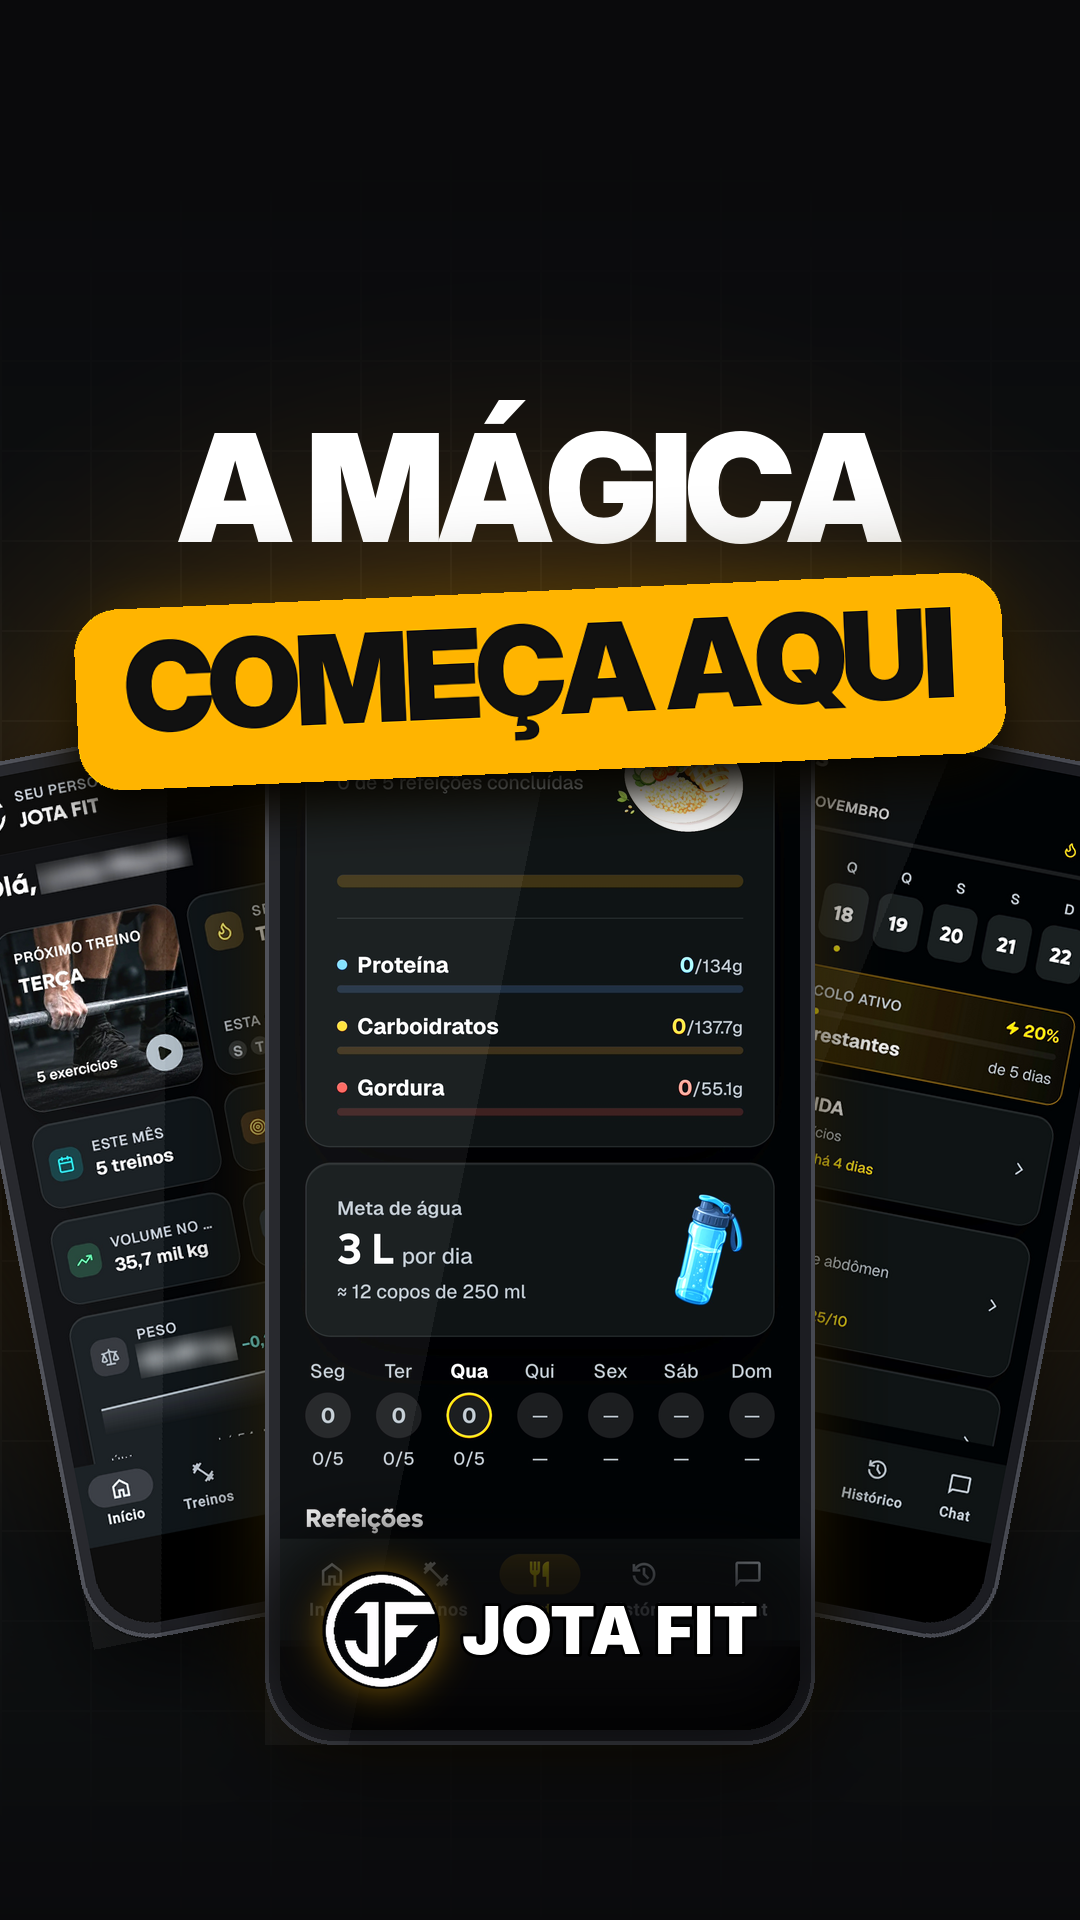
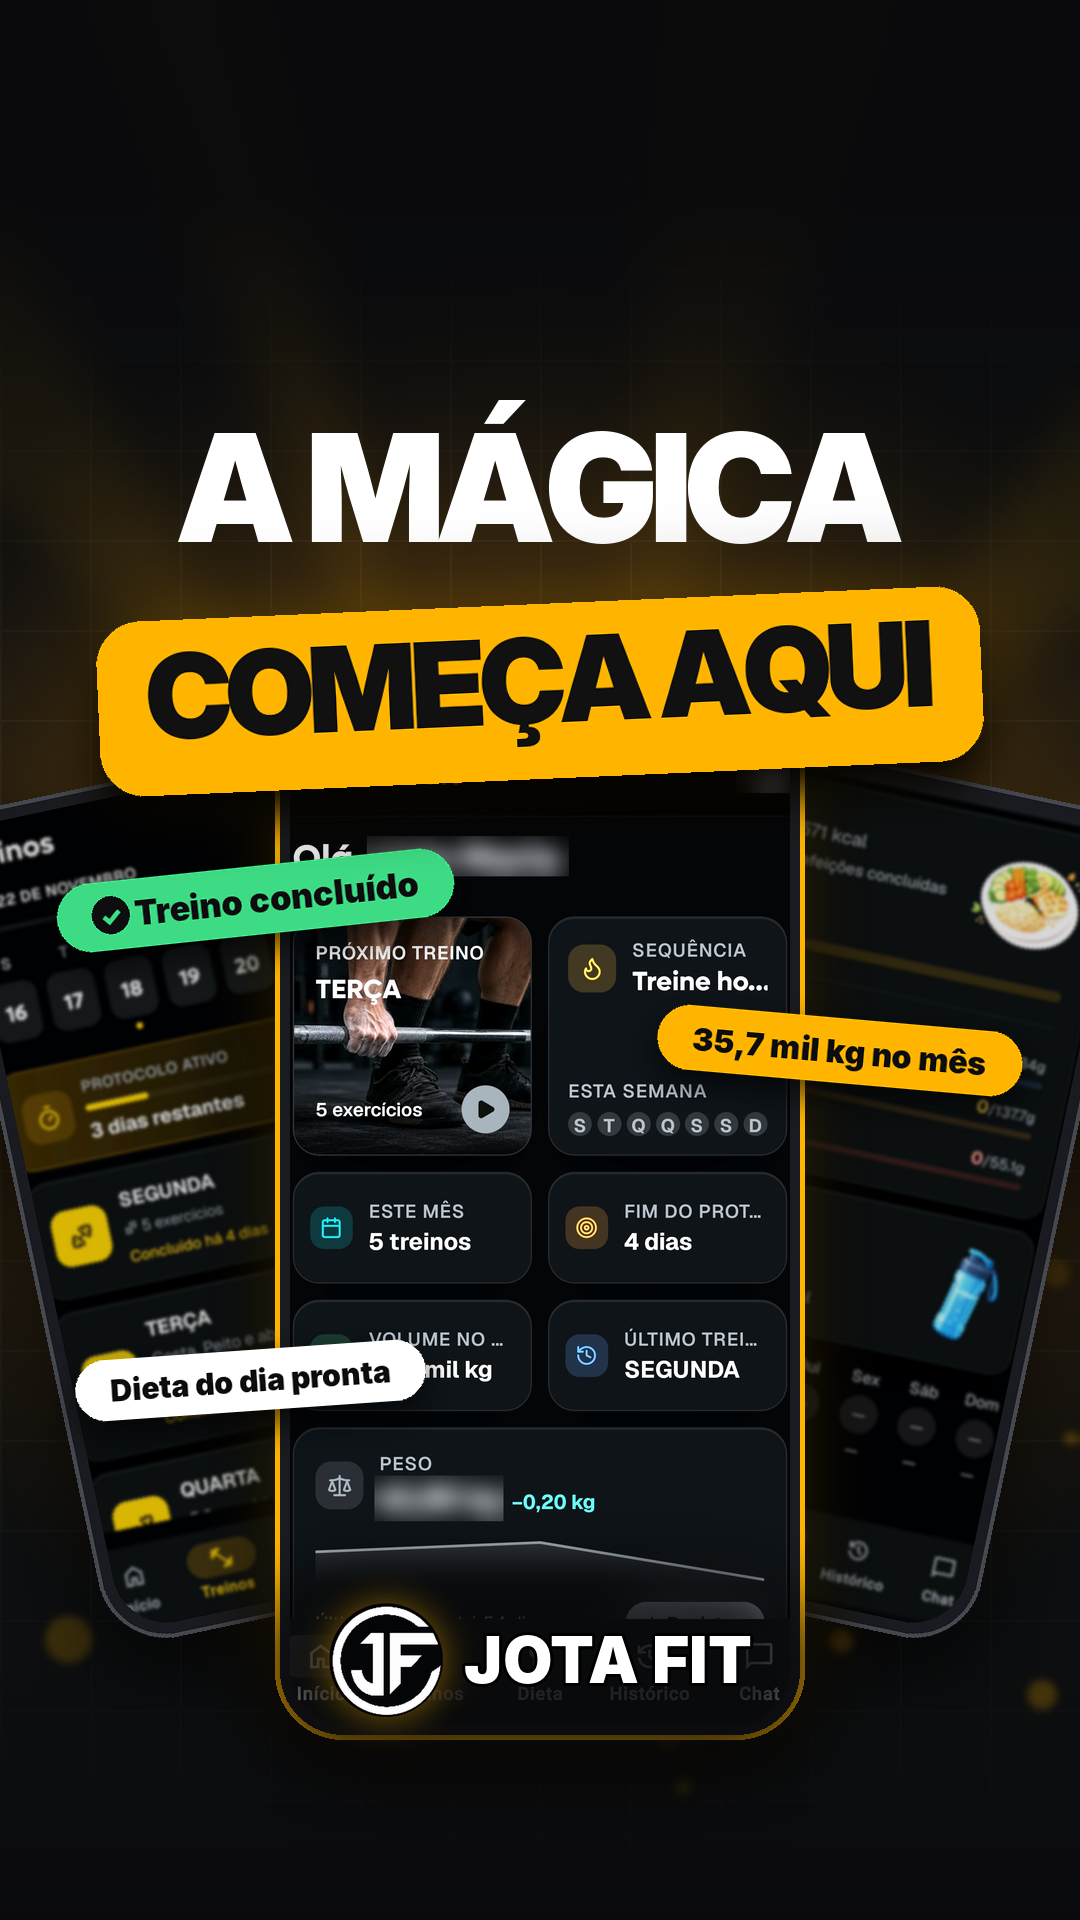
Redo all covers in one visual system (beams, bokeh, depth, floating chips; no glass glare)
Claude-Session: https://claude.ai/code/session_01UuH9TpKCs4xLYma23g83NG

Changed region(s): [[0.0, 0.2812, 1.0, 0.9062], [0.9472, 0.875, 0.9778, 0.9062], [0.7944, 0.6875, 0.825, 0.7188]]

diff --git a/analises/capas/covers.py b/analises/capas/covers.py
@@ -1,0 +1,183 @@
+"""Jota Fit cover system: amber-glow bg + light beams + bokeh, white/yellow tilted headline,
+fanned cards with depth-of-field (no glass reflection), floating UI chips, brand footer."""
+import sys, math, random, numpy as np, cv2
+from PIL import Image, ImageDraw, ImageFont, ImageFilter, ImageEnhance
+
+A, BRAND, OUTDIR = sys.argv[1], sys.argv[2], sys.argv[3]
+W, H = 1080, 1920
+YEL = (255, 180, 0); WHITE = (255, 255, 255); DARK = (14, 14, 16); GREEN = (61, 220, 132); RED = (255, 45, 70)
+INTER = '/usr/share/fonts/opentype/inter/'
+def F(n, s): return ImageFont.truetype(INTER + {'disp': 'InterDisplay-Black.otf', 'black': 'Inter-Black.otf', 'xb': 'Inter-ExtraBold.otf', 'bold': 'Inter-Bold.otf'}[n], s)
+
+def background(seed=1, cy=1000):
+    rng = random.Random(seed)
+    yy, xx = np.mgrid[0:H, 0:W].astype(np.float32)
+    glow = np.clip(1 - np.sqrt(((xx - W / 2) / 820) ** 2 + ((yy - cy) / 760) ** 2), 0, 1) ** 1.5
+    grid = (((xx % 90) < 1.5) | ((yy % 90) < 1.5)).astype(np.float32) * 0.055 * np.clip(1.25 - np.sqrt((xx - W / 2) ** 2 + (yy - cy) ** 2) / 820, 0, 1)
+    bg = np.zeros((H, W, 3), np.float32) + np.array([15, 14, 12]) + glow[..., None] * np.array([0, 150, 255]) * 0.8 + grid[..., None] * 255
+    base = Image.fromarray(np.clip(bg, 0, 255).astype(np.uint8)[..., ::-1]).convert('RGBA')
+    # light beams from behind the cards
+    beams = Image.new('RGBA', (W, H)); bd = ImageDraw.Draw(beams)
+    ox, oy = W / 2, cy + 150
+    for ang in (-62, -38, -14, 12, 36, 60):
+        a = math.radians(ang + rng.uniform(-4, 4)); w_ = math.radians(4 + rng.uniform(0, 3))
+        L = 1500
+        p1 = (ox + L * math.sin(a - w_), oy - L * math.cos(a - w_)); p2 = (ox + L * math.sin(a + w_), oy - L * math.cos(a + w_))
+        bd.polygon([(ox, oy), p1, p2], fill=YEL + (rng.randint(16, 30),))
+    base.alpha_composite(beams.filter(ImageFilter.GaussianBlur(30)))
+    # bokeh particles
+    bk = Image.new('RGBA', (W, H)); kd = ImageDraw.Draw(bk)
+    for _ in range(26):
+        x, y, r = rng.uniform(0, W), rng.uniform(700, 1800), rng.uniform(6, 26)
+        kd.ellipse((x - r, y - r, x + r, y + r), fill=YEL + (rng.randint(40, 110),))
+    base.alpha_composite(bk.filter(ImageFilter.GaussianBlur(5)))
+    return base
+
+def load(path, bright=1.15):
+    im = Image.open(path).convert('RGB')
+    im = ImageEnhance.Brightness(im).enhance(bright); im = ImageEnhance.Contrast(im).enhance(1.08)
+    return im
+
+def fit(im, w, h, cx=0.5, cy=0.0):
+    sw, sh = im.size; s = max(w / sw, h / sh); nw, nh = int(sw * s) + 1, int(sh * s) + 1
+    im = im.resize((nw, nh), Image.LANCZOS); x0 = int((nw - w) * cx); y0 = int((nh - h) * cy)
+    return im.crop((x0, y0, x0 + w, y0 + h))
+
+def card(im, w, h, rot=0, rad=54, border=(70, 72, 80), bw=4, blur=0, dim=1.0, cx=0.5, cy=0.0, frame=True):
+    c = fit(im, w, h, cx, cy)
+    if blur: c = c.filter(ImageFilter.GaussianBlur(blur))
+    if dim != 1: c = ImageEnhance.Brightness(c).enhance(dim)
+    c = c.convert('RGBA'); mk = Image.new('L', (w, h), 0); ImageDraw.Draw(mk).rounded_rectangle((0, 0, w - 1, h - 1), rad, fill=255); c.putalpha(mk)
+    pad = 15 if frame else 0
+    fr = Image.new('RGBA', (w + 2 * pad, h + 2 * pad), (0, 0, 0, 0))
+    if frame: ImageDraw.Draw(fr).rounded_rectangle((0, 0, w + 2 * pad - 1, h + 2 * pad - 1), rad + 14, fill=(26, 27, 32, 255), outline=border + (255,), width=bw)
+    fr.alpha_composite(c, (pad, pad))
+    return fr.rotate(rot, resample=Image.BICUBIC, expand=True) if rot else fr
+
+def place(lay, im, cx, cy, shadow=170, glow=None, glow_a=120):
+    m = im.split()[3]
+    if glow:
+        g = Image.new('RGBA', (W, H)); t = Image.new('RGBA', im.size, glow + (0,)); t.putalpha(m.point(lambda v: v * glow_a // 255))
+        g.alpha_composite(t, (int(cx - im.width / 2), int(cy - im.height / 2))); lay.alpha_composite(g.filter(ImageFilter.GaussianBlur(45)))
+    sh = Image.new('RGBA', (W, H)); t = Image.new('RGBA', im.size, (0, 0, 0, 0)); t.putalpha(m.point(lambda v: v * shadow // 255))
+    sh.alpha_composite(t, (int(cx - im.width / 2), int(cy - im.height / 2 + 40))); lay.alpha_composite(sh.filter(ImageFilter.GaussianBlur(40)))
+    lay.alpha_composite(im, (int(cx - im.width / 2), int(cy - im.height / 2)))
+
+def tight(text, font, fill, track):
+    ws = [font.getlength(c) for c in text]
+    im = Image.new('RGBA', (int(sum(ws) + track * (len(text) - 1) + 40), int(font.size * 1.4 + 40)), (0, 0, 0, 0)); d = ImageDraw.Draw(im); x = 20
+    for c, w in zip(text, ws): d.text((x, im.height / 2), c, font=font, fill=fill + (255,), anchor='lm'); x += w + track
+    return im.crop(im.getbbox())
+
+def headline(lay, l1, l2, y=400, s1=150, s2=124, maxw=900, box_col=YEL, fg2=(17, 17, 17)):
+    a = tight(l1, F('disp', s1), WHITE, -7)
+    if a.width > maxw: a = tight(l1, F('disp', int(s1 * maxw / a.width)), WHITE, -7)
+    lay.alpha_composite(a, (int(W / 2 - a.width / 2), y))
+    b = tight(l2, F('disp', s2), fg2, -6)
+    if b.width > maxw - 110: b = tight(l2, F('disp', int(s2 * (maxw - 110) / b.width)), fg2, -6)
+    bw, bh = b.width + 100, b.height + 64
+    box = Image.new('RGBA', (bw, bh), (0, 0, 0, 0)); ImageDraw.Draw(box).rounded_rectangle((0, 0, bw - 1, bh - 1), 44, fill=box_col + (255,))
+    box.alpha_composite(b, (50, 32)); box = box.rotate(2.5, resample=Image.BICUBIC, expand=True)
+    by = y + a.height + 40
+    g = Image.new('RGBA', (W, H)); t = Image.new('RGBA', box.size, box_col + (0,)); t.putalpha(box.split()[3].point(lambda v: v * 130 // 255))
+    g.alpha_composite(t, (int(W / 2 - box.width / 2), by)); lay.alpha_composite(g.filter(ImageFilter.GaussianBlur(40)))
+    sh = Image.new('RGBA', (W, H)); t = Image.new('RGBA', box.size, (0, 0, 0, 0)); t.putalpha(box.split()[3])
+    sh.alpha_composite(t, (int(W / 2 - box.width / 2), by + 24)); lay.alpha_composite(sh.filter(ImageFilter.GaussianBlur(22)))
+    lay.alpha_composite(box, (int(W / 2 - box.width / 2), by))
+    return by + box.height
+
+def chip(lay, text, cx, cy, kind='white', rot=0, size=36, icon=None):
+    bg = {'white': (255, 255, 255), 'yellow': YEL, 'green': GREEN, 'red': RED, 'dark': (22, 22, 26)}[kind]
+    fg = WHITE if kind in ('red', 'dark') else DARK
+    f = F('black', size); tw = f.getlength(text)
+    ic_w = size * 1.25 if icon else 0
+    w, h = int(tw + ic_w + 70), int(size * 2.0)
+    im = Image.new('RGBA', (w + 60, h + 60), (0, 0, 0, 0)); d = ImageDraw.Draw(im)
+    d.rounded_rectangle((30, 30, 30 + w, 30 + h), h // 2, fill=bg + (255,),
+                        outline=(YEL + (255,)) if kind == 'dark' else None, width=3 if kind == 'dark' else 0)
+    x = 30 + 35
+    if icon:
+        r = size * 0.55; cxi, cyi = x + r, 30 + h / 2
+        d.ellipse((cxi - r, cyi - r, cxi + r, cyi + r), fill=(fg if kind != 'dark' else YEL) + (255,))
+        d.text((cxi, cyi + 1), icon, font=F('black', int(size * 0.75)), fill=bg + (255,) if kind != 'dark' else DARK + (255,), anchor='mm')
+        x += ic_w
+    d.text((x, 30 + h / 2 + 1), text, font=f, fill=fg + (255,), anchor='lm')
+    if rot: im = im.rotate(rot, resample=Image.BICUBIC, expand=True)
+    sh = Image.new('RGBA', (W, H)); t = Image.new('RGBA', im.size, (0, 0, 0, 0)); t.putalpha(im.split()[3].point(lambda v: v * 170 // 255))
+    sh.alpha_composite(t, (int(cx - im.width / 2), int(cy - im.height / 2 + 14))); lay.alpha_composite(sh.filter(ImageFilter.GaussianBlur(16)))
+    lay.alpha_composite(im, (int(cx - im.width / 2), int(cy - im.height / 2)))
+
+def fades(lay, top=720, bottom=1620):
+    fade = np.zeros((H, W, 4), np.uint8); fade[..., :3] = (10, 10, 12); yv = np.arange(H)[:, None]
+    al = np.clip(np.maximum((top - yv) / 520, (yv - bottom) / 300), 0, 1) ** 1.4 * 0.93
+    fade[..., 3] = (al * 255).astype(np.uint8); lay.alpha_composite(Image.fromarray(fade))
+
+def brand(lay, cy=1660):
+    logo = Image.open(BRAND + '/logo.png').convert('RGBA').resize((116, 116), Image.LANCZOS)
+    fb = F('black', 64); tw = fb.getlength('JOTA FIT'); x0 = W / 2 - (116 + 20 + tw) / 2
+    d0 = Image.new('RGBA', (W, H)); ImageDraw.Draw(d0).rounded_rectangle((x0 - 60, cy - 92, x0 + 136 + tw + 60, cy + 92), 92, fill=(8, 8, 10, 220)); lay.alpha_composite(d0.filter(ImageFilter.GaussianBlur(28)))
+    g = Image.new('RGBA', (W, H)); ImageDraw.Draw(g).ellipse((x0 - 10, cy - 68, x0 + 126, cy + 68), fill=YEL + (140,)); lay.alpha_composite(g.filter(ImageFilter.GaussianBlur(22)))
+    lay.alpha_composite(logo, (int(x0), int(cy - 58)))
+    ImageDraw.Draw(lay).text((x0 + 136, cy), 'JOTA FIT', font=fb, fill=WHITE + (255,), anchor='lm', stroke_width=3, stroke_fill=(0, 0, 0, 255))
+
+def save(base, lay, name):
+    base.alpha_composite(lay); base.convert('RGB').save(f'{OUTDIR}/{name}', quality=95)
+    g = base.convert('RGB').crop((0, 240, 1080, 1680)).resize((540, 720)); g.save(f'{OUTDIR}/grid-{name.replace(".png", ".jpg")}', quality=88)
+
+# ======================= 1. TOUR DO APP =======================
+def cover_tour():
+    base = background(3); lay = Image.new('RGBA', (W, H))
+    place(lay, card(load(A + '/treinos.jpg'), 400, 820, 12, blur=1.6, dim=0.85), 235, 1190)
+    place(lay, card(load(A + '/dieta.jpg'), 400, 820, -12, blur=1.6, dim=0.85), 845, 1190)
+    place(lay, card(load(A + '/home.jpg', 1.2), 500, 1010, 0, border=YEL, bw=5), W / 2, 1220, 190, glow=YEL)
+    fades(lay)
+    chip(lay, 'Treino concluído', 255, 900, 'green', rot=6, size=34, icon='✓')
+    chip(lay, '35,7 mil kg no mês', 840, 1050, 'yellow', rot=-5, size=32)
+    chip(lay, 'Dieta do dia pronta', 250, 1380, 'white', rot=4, size=30)
+    headline(lay, 'A MÁGICA', 'COMEÇA AQUI')
+    brand(lay); save(base, lay, 'capa-tour-app.png')
+
+# ======================= 2. SEU PERSONAL NO BOLSO =======================
+def cover_curto():
+    base = background(7, 1050); lay = Image.new('RGBA', (W, H))
+    place(lay, card(load(A + '/treinos.jpg'), 430, 880, 9, blur=1.8, dim=0.8), 760, 1150)
+    place(lay, card(load(A + '/dieta.jpg', 1.2), 520, 1060, -6, border=YEL, bw=5), 470, 1230, 190, glow=YEL)
+    fades(lay)
+    chip(lay, 'Refeição concluída', 520, 1080, 'green', rot=-5, size=40, icon='✓')
+    chip(lay, 'Treino de hoje: TERÇA', 790, 870, 'white', rot=5, size=30)
+    chip(lay, 'Chat com o personal', 760, 1420, 'yellow', rot=-3, size=30)
+    headline(lay, 'SEU PERSONAL', 'NO BOLSO')
+    brand(lay); save(base, lay, 'capa-personal-no-bolso.png')
+
+# ======================= 3. COMO FUNCIONA A CONSULTORIA =======================
+def cover_consultoria():
+    base = background(11, 1050); lay = Image.new('RGBA', (W, H))
+    # personal's panel (laptop) as a wide tilted card behind
+    place(lay, card(load(A + '/painel.png', 1.15), 700, 470, 7, rad=36, cx=0.5, cy=0.25), 410, 1000)
+    place(lay, card(load(A + '/treinos.jpg', 1.2), 440, 900, -7, border=YEL, bw=5), 790, 1250, 190, glow=YEL)
+    fades(lay)
+    chip(lay, 'Painel do personal', 300, 760, 'white', rot=7, size=28)
+    chip(lay, 'App do aluno', 830, 800, 'white', rot=-7, size=28)
+    for k, (num, txt) in enumerate((('1', 'Avaliação'), ('2', 'Treino + dieta no app'), ('3', 'Ajuste toda semana'))):
+        chip(lay, txt, 300, 1290 + k * 105, 'dark', rot=0, size=30, icon=num)
+    headline(lay, 'COMO FUNCIONA', 'A CONSULTORIA', s1=118, s2=110)
+    brand(lay); save(base, lay, 'capa-como-funciona-consultoria.png')
+
+# ======================= 4. PASSADA =======================
+def cover_passada():
+    base = background(5, 1050); lay = Image.new('RGBA', (W, H))
+    ctx = Image.open(A + '/p_ctx.png').convert('RGB').crop((0, 300, 1080, 1250))
+    vs = Image.open(A + '/p_vs.png').convert('RGB').crop((560, 330, 1060, 1180))
+    f1 = Image.open(A + '/p_f1.png').convert('RGB').crop((60, 680, 1020, 1660))
+    place(lay, card(ctx, 400, 820, 12, blur=1.4, dim=0.85, cx=0.55), 235, 1190)
+    place(lay, card(vs, 400, 820, -12, blur=0.8, dim=0.9, cx=0.5, cy=0.0), 845, 1190)
+    place(lay, card(f1, 500, 1010, 0, border=RED, bw=5, cx=0.5, cy=0.0), W / 2, 1220, 190, glow=RED, glow_a=110)
+    fades(lay)
+    chip(lay, 'Joelho pra dentro', 285, 900, 'red', rot=6, size=32, icon='!')
+    chip(lay, 'Base de trilho', 820, 1080, 'red', rot=-5, size=30, icon='!')
+    chip(lay, 'Como deveria', 820, 1420, 'green', rot=-4, size=30, icon='✓')
+    headline(lay, 'NINGUÉM CORRIGIU', 'ESSA PASSADA', s1=118, s2=116)
+    brand(lay); save(base, lay, 'capa-passada.png')
+
+for fn in sys.argv[4].split(','):
+    globals()['cover_' + fn](); print('ok', fn)
